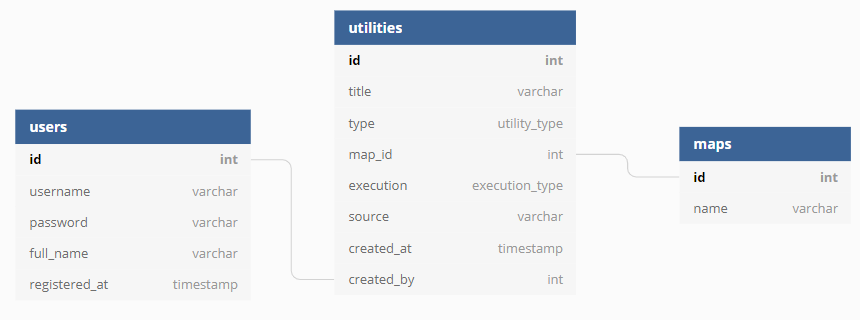
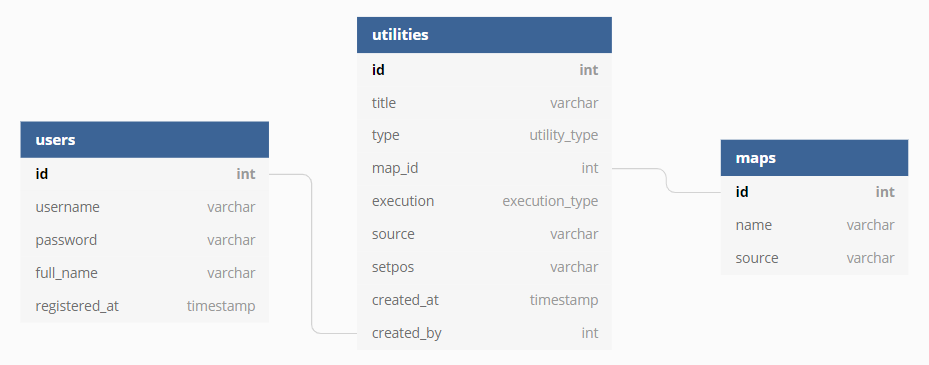
Frontpage, little bit design and code fixing. + Added a working frontpage to choose a map and then find all smokes for that given map on the page. + Added a background pattern. + Some restructure and renaming was done in the folders. + Added a mysqli_close() so it remembers to close the connection.

diff --git a/5. Semester/UA-smokeCoop/css/stylesheet.css b/5. Semester/UA-smokeCoop/css/stylesheet.css
@@ -1,5 +1,7 @@
+
 body {
   text-align:center;
+  background: url(../images/bg-concrete.png) repeat;
 }
 
 a {
@@ -95,3 +97,50 @@ a {
 }
 
 .modal-body {padding: 2px 16px;}
+
+
+/* Frontpage */
+#frontpage {
+  width: 100%;
+  height: 800px;
+}
+
+#frontpage .wrapper {
+  width: 80%;
+  height: 100%;
+  display:inline-block;
+}
+
+#frontpage .logo {
+  width:100%;
+  display:inline-block;
+  padding-top: 25px;
+}
+#frontpage .logo img {
+  max-width: 18%;
+  height: auto;
+}
+
+#frontpage .maps {
+  margin-top:50px;
+  display: inline-block;
+  width: 80%;
+}
+
+#frontpage .maps .maps-text {
+  margin-bottom: 30px;
+}
+
+#frontpage .maps img {
+  max-width: 18%;
+  margin: 0.2%;
+  border: darkgray 1px solid;
+  -webkit-filter: grayscale(1);
+  filter: grayscale(1);
+  transition: filter .2s ease-in-out;
+}
+
+#frontpage .maps img:hover {
+  -webkit-filter: grayscale(0);
+  filter: grayscale(0);
+}

diff --git a/5. Semester/UA-smokeCoop/frontpage.php b/5. Semester/UA-smokeCoop/frontpage.php
@@ -1,0 +1,23 @@
+<?php
+$mapsSQL = "SELECT * FROM maps ORDER BY id";
+$mapList = mysqli_fetch_all(mysqli_query($db, $mapsSQL), MYSQLI_ASSOC);
+?>
+
+<div id="frontpage">
+    <div class="wrapper">
+        <div class="logo">
+            <img src="images/logo.png">
+        </div>
+
+        <div class="maps">
+            <p class="maps-text">Choose your desired map</p>
+
+            <?php
+            foreach ($mapList as $map):
+                echo '<a href="utility.php?map_id=' . $map['id'] . '"><img src="images/' . $map['source'] . '"></a>';
+            endforeach;
+            ?>
+
+        </div>
+    </div>
+</div>

diff --git a/5. Semester/UA-smokeCoop/utility-content.php b/5. Semester/UA-smokeCoop/utility-content.php
@@ -1,5 +1,12 @@
+<?php
+$map_id = $_GET['map_id'];
+$map_sql = "SELECT name FROM maps WHERE id=$map_id";
+$map_result = mysqli_fetch_assoc(mysqli_query($db, $map_sql));
+$map_name = $map_result['name'];
+?>
+
 <div id="header">
-    <h1>de_inferno</h1>
+    <h1><?php print_r($map_name); ?></h1>
 </div>
 
 <div id="content">

diff --git a/5. Semester/UA-smokeCoop/print-utilities.php b/5. Semester/UA-smokeCoop/print-utilities.php
@@ -1,5 +1,5 @@
 <?php
-$utilitySQL = "SELECT * FROM utilities ORDER BY id";
+$utilitySQL = "SELECT * FROM `utilities` WHERE map_id=$map_id ORDER BY id";
 $makeQuery = mysqli_query($db, $utilitySQL);
 $utilityList = mysqli_fetch_all($makeQuery, MYSQLI_ASSOC);
 

diff --git a/5. Semester/UA-smokeCoop/utility.php b/5. Semester/UA-smokeCoop/utility.php
@@ -2,7 +2,7 @@
 
 <?php include('header.php'); ?>
 
-<?php include('frontpage.php'); ?>
+<?php include('utility-content.php'); ?>
 
 <?php include('footer.php');
 

diff --git a/5. Semester/UA-smokeCoop/modal-data.php b/5. Semester/UA-smokeCoop/modal-data.php
@@ -11,4 +11,5 @@ foreach ($utilityList as $row):
     echo '<img src="gifs/' . $row['source'] . '">';
 endforeach;
 
+mysqli_close($db);
 ?>

diff --git a/5. Semester/UA-smokeCoop/README.md b/5. Semester/UA-smokeCoop/README.md
@@ -6,8 +6,8 @@ This is a basic website built with PHP + SQL in order to train utilities in CS:G
 
 ## Todo's
 
-- [ ] Create the actual frontpage (Choose map)
-  - [ ] Add a source to maps database (Link to image)
+- [x] Create the actual frontpage (Choose map)
+  - [x] Add a source to maps database (Link to image)
 - [ ] Design and layout of the webpage
 - [ ] More information on the cards (Creator, utility type)
 - [ ] Layout of the modal 
